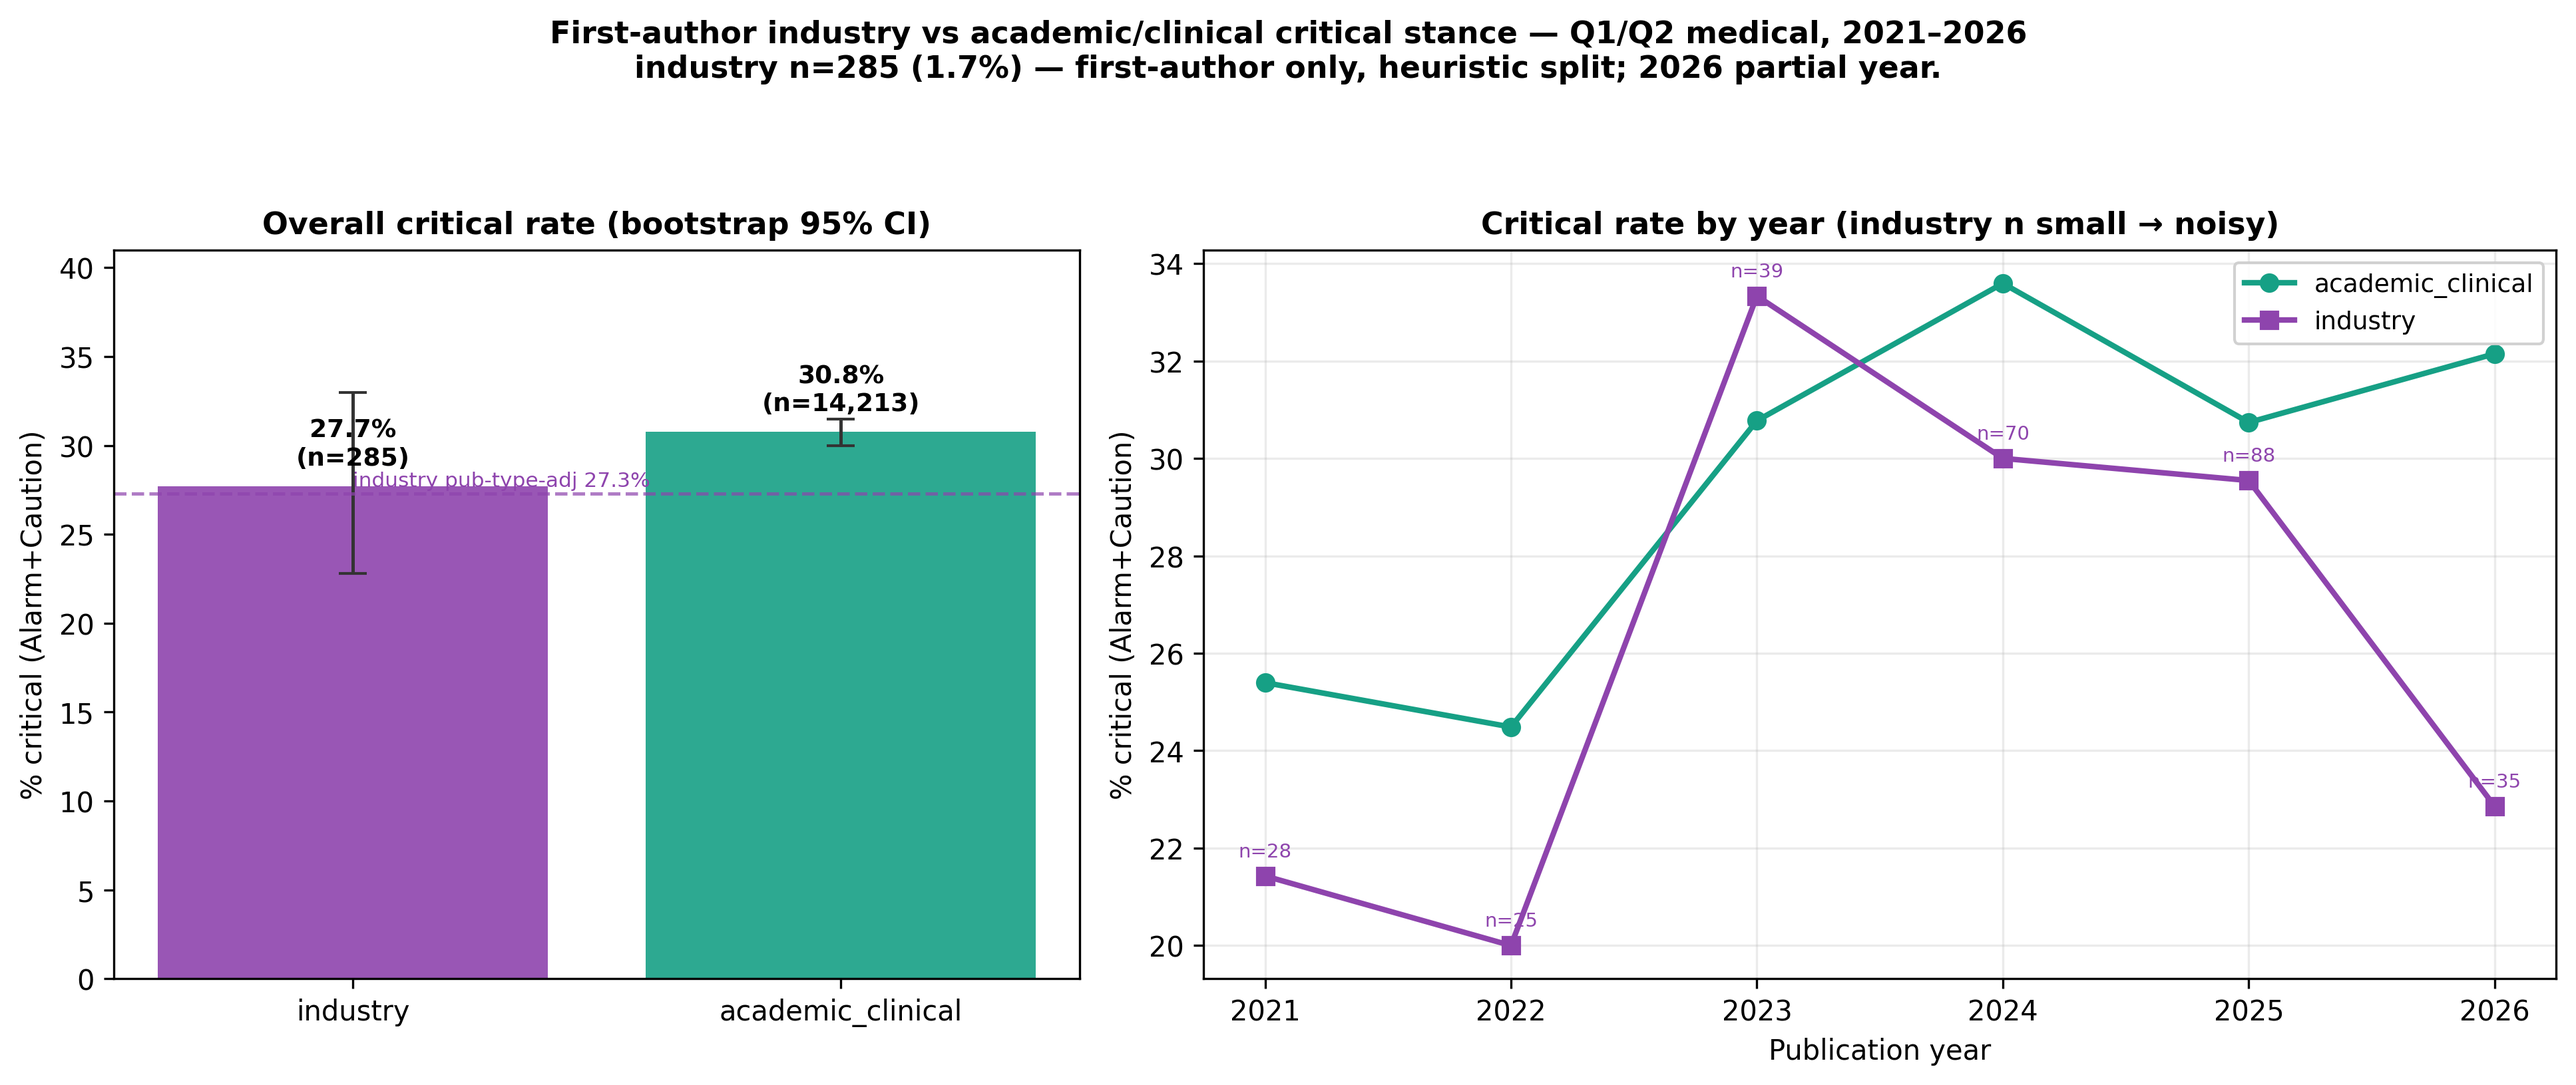
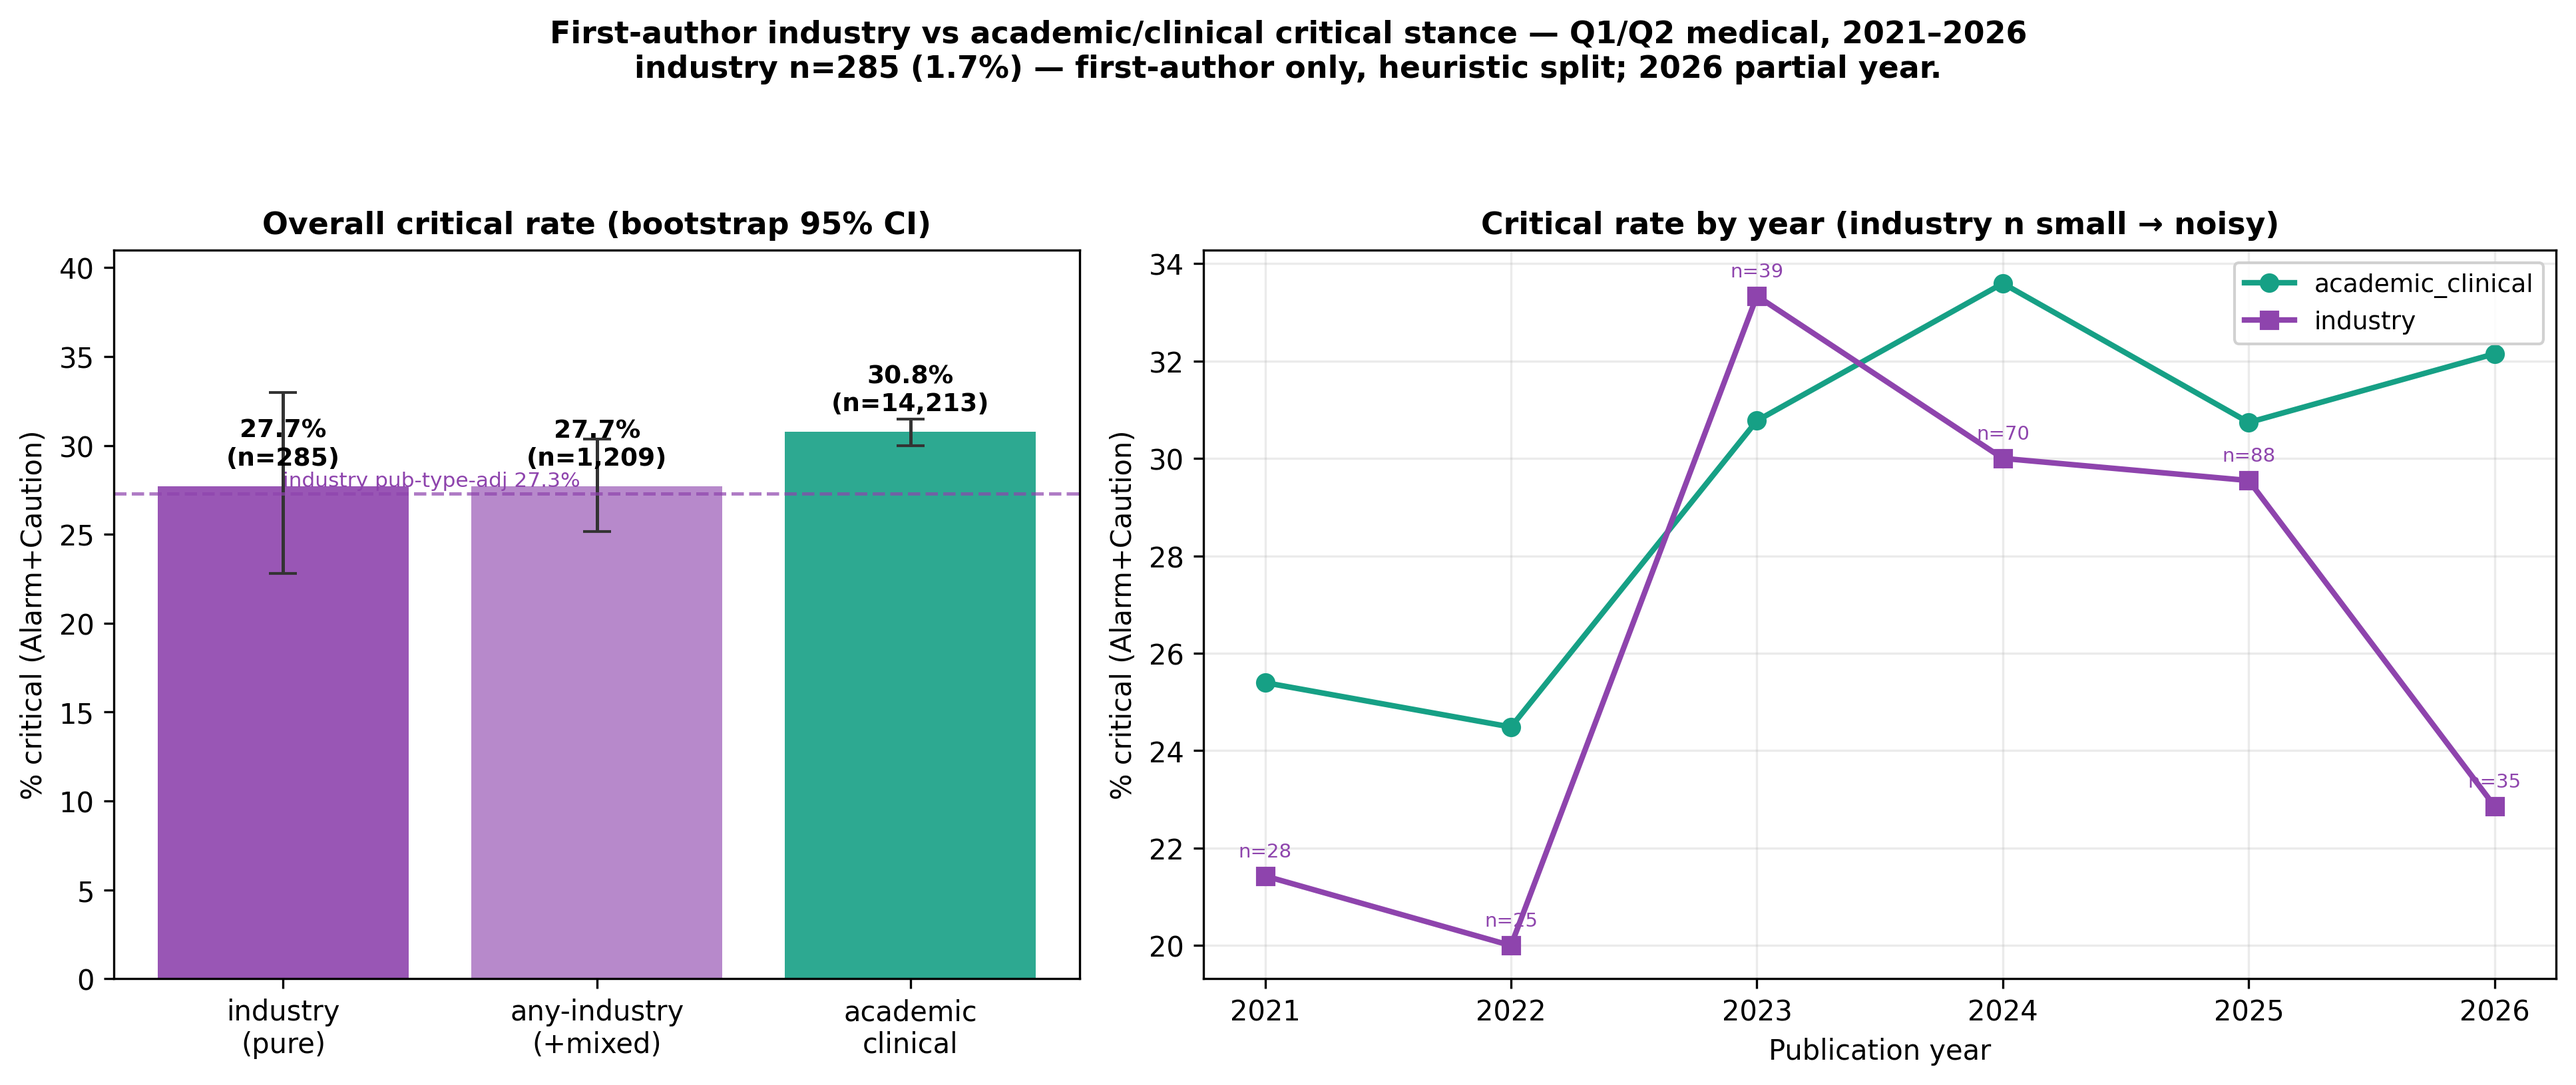
S4-6: add any-industry-involvement sensitivity arm (industry + mixed)
Folds the 924 mixed (academia-industry collaboration) papers in with the
285 pure-industry papers -> any-industry n=1,209, critical 27.7%
[25.1, 30.4] vs academic 30.8% [30.0, 31.5] (delta -3.1pp). Point estimate
is identical to pure industry (27.7%), so collaborations track industry,
not academia. Tighter CI but still overlaps academic at the margin —
directional, not decisive. Adds third bar to figure + CSV row.

Changed region(s): [[0.093, 0.3372, 0.3721, 0.981], [0.093, 0.9197, 0.155, 0.981]]

diff --git a/analysis/run_industry_vs_academia.py b/analysis/run_industry_vs_academia.py
@@ -147,16 +147,24 @@ def main() -> None:
     # ── [3] critical rate industry vs academic, overall + bootstrap CI ─────────
     ind = df[df["sector"] == "industry"]
     acad = df[df["sector"] == "academic_clinical"]
+    # sensitivity arm: ANY industry involvement = pure industry + mixed
+    # (mixed = both industry and academic tokens present, i.e. collaborations).
+    any_ind = df[df["sector"].isin(["industry", "mixed"])]
     ci_ind = bootstrap_ci(ind, critical_rate)
     ci_acad = bootstrap_ci(acad, critical_rate)
+    ci_any = bootstrap_ci(any_ind, critical_rate)
     print("\n[3] Critical (Alarm+Caution) rate — overall")
-    print(f"    industry          n={len(ind):>5,}  {ci_ind['point']:5.1f}%  "
+    print(f"    industry (pure)      n={len(ind):>5,}  {ci_ind['point']:5.1f}%  "
           f"CI[{ci_ind['lower']:.1f}, {ci_ind['upper']:.1f}]  "
           f"(width {ci_ind['upper']-ci_ind['lower']:.1f}pp)")
-    print(f"    academic_clinical n={len(acad):>5,}  {ci_acad['point']:5.1f}%  "
+    print(f"    any-industry (+mixed)n={len(any_ind):>5,}  {ci_any['point']:5.1f}%  "
+          f"CI[{ci_any['lower']:.1f}, {ci_any['upper']:.1f}]  "
+          f"(width {ci_any['upper']-ci_any['lower']:.1f}pp)")
+    print(f"    academic_clinical    n={len(acad):>5,}  {ci_acad['point']:5.1f}%  "
           f"CI[{ci_acad['lower']:.1f}, {ci_acad['upper']:.1f}]  "
           f"(width {ci_acad['upper']-ci_acad['lower']:.1f}pp)")
-    print(f"    delta (industry - academic): {ci_ind['point']-ci_acad['point']:+.1f} pp")
+    print(f"    delta (pure industry - academic): {ci_ind['point']-ci_acad['point']:+.1f} pp")
+    print(f"    delta (any-industry  - academic): {ci_any['point']-ci_acad['point']:+.1f} pp")
 
     # by pub_year
     print("\n    By pub_year (industry n | crit% | academic crit%):")
@@ -195,6 +203,8 @@ def main() -> None:
     rows = [
         {"group": "industry_overall", "n": len(ind), "critical_pct": round(ci_ind["point"], 2),
          "ci_lo": round(ci_ind["lower"], 2), "ci_hi": round(ci_ind["upper"], 2)},
+        {"group": "any_industry_overall", "n": len(any_ind), "critical_pct": round(ci_any["point"], 2),
+         "ci_lo": round(ci_any["lower"], 2), "ci_hi": round(ci_any["upper"], 2)},
         {"group": "academic_overall", "n": len(acad), "critical_pct": round(ci_acad["point"], 2),
          "ci_lo": round(ci_acad["lower"], 2), "ci_hi": round(ci_acad["upper"], 2)},
         {"group": "industry_pubtype_adjusted", "n": len(ind), "critical_pct": round(adj_ind, 2),
@@ -214,13 +224,13 @@ def main() -> None:
     fig, (axL, axR) = plt.subplots(1, 2, figsize=(13, 5.5),
                                    gridspec_kw={"width_ratios": [1, 1.4]})
 
-    # left: bar + CI overall
-    groups = ["industry", "academic_clinical"]
-    pts = [ci_ind["point"], ci_acad["point"]]
-    los = [ci_ind["lower"], ci_acad["lower"]]
-    his = [ci_ind["upper"], ci_acad["upper"]]
-    ns = [len(ind), len(acad)]
-    colors = ["#8E44AD", "#16A085"]
+    # left: bar + CI overall (incl. any-industry sensitivity arm)
+    groups = ["industry\n(pure)", "any-industry\n(+mixed)", "academic\nclinical"]
+    pts = [ci_ind["point"], ci_any["point"], ci_acad["point"]]
+    los = [ci_ind["lower"], ci_any["lower"], ci_acad["lower"]]
+    his = [ci_ind["upper"], ci_any["upper"], ci_acad["upper"]]
+    ns = [len(ind), len(any_ind), len(acad)]
+    colors = ["#8E44AD", "#B07CC6", "#16A085"]
     yerr = np.array([[p - l for p, l in zip(pts, los)], [h - p for p, h in zip(pts, his)]])
     bars = axL.bar(groups, pts, yerr=yerr, color=colors, alpha=0.9,
                    error_kw={"lw": 1.2, "capsize": 5, "ecolor": "#333"})
